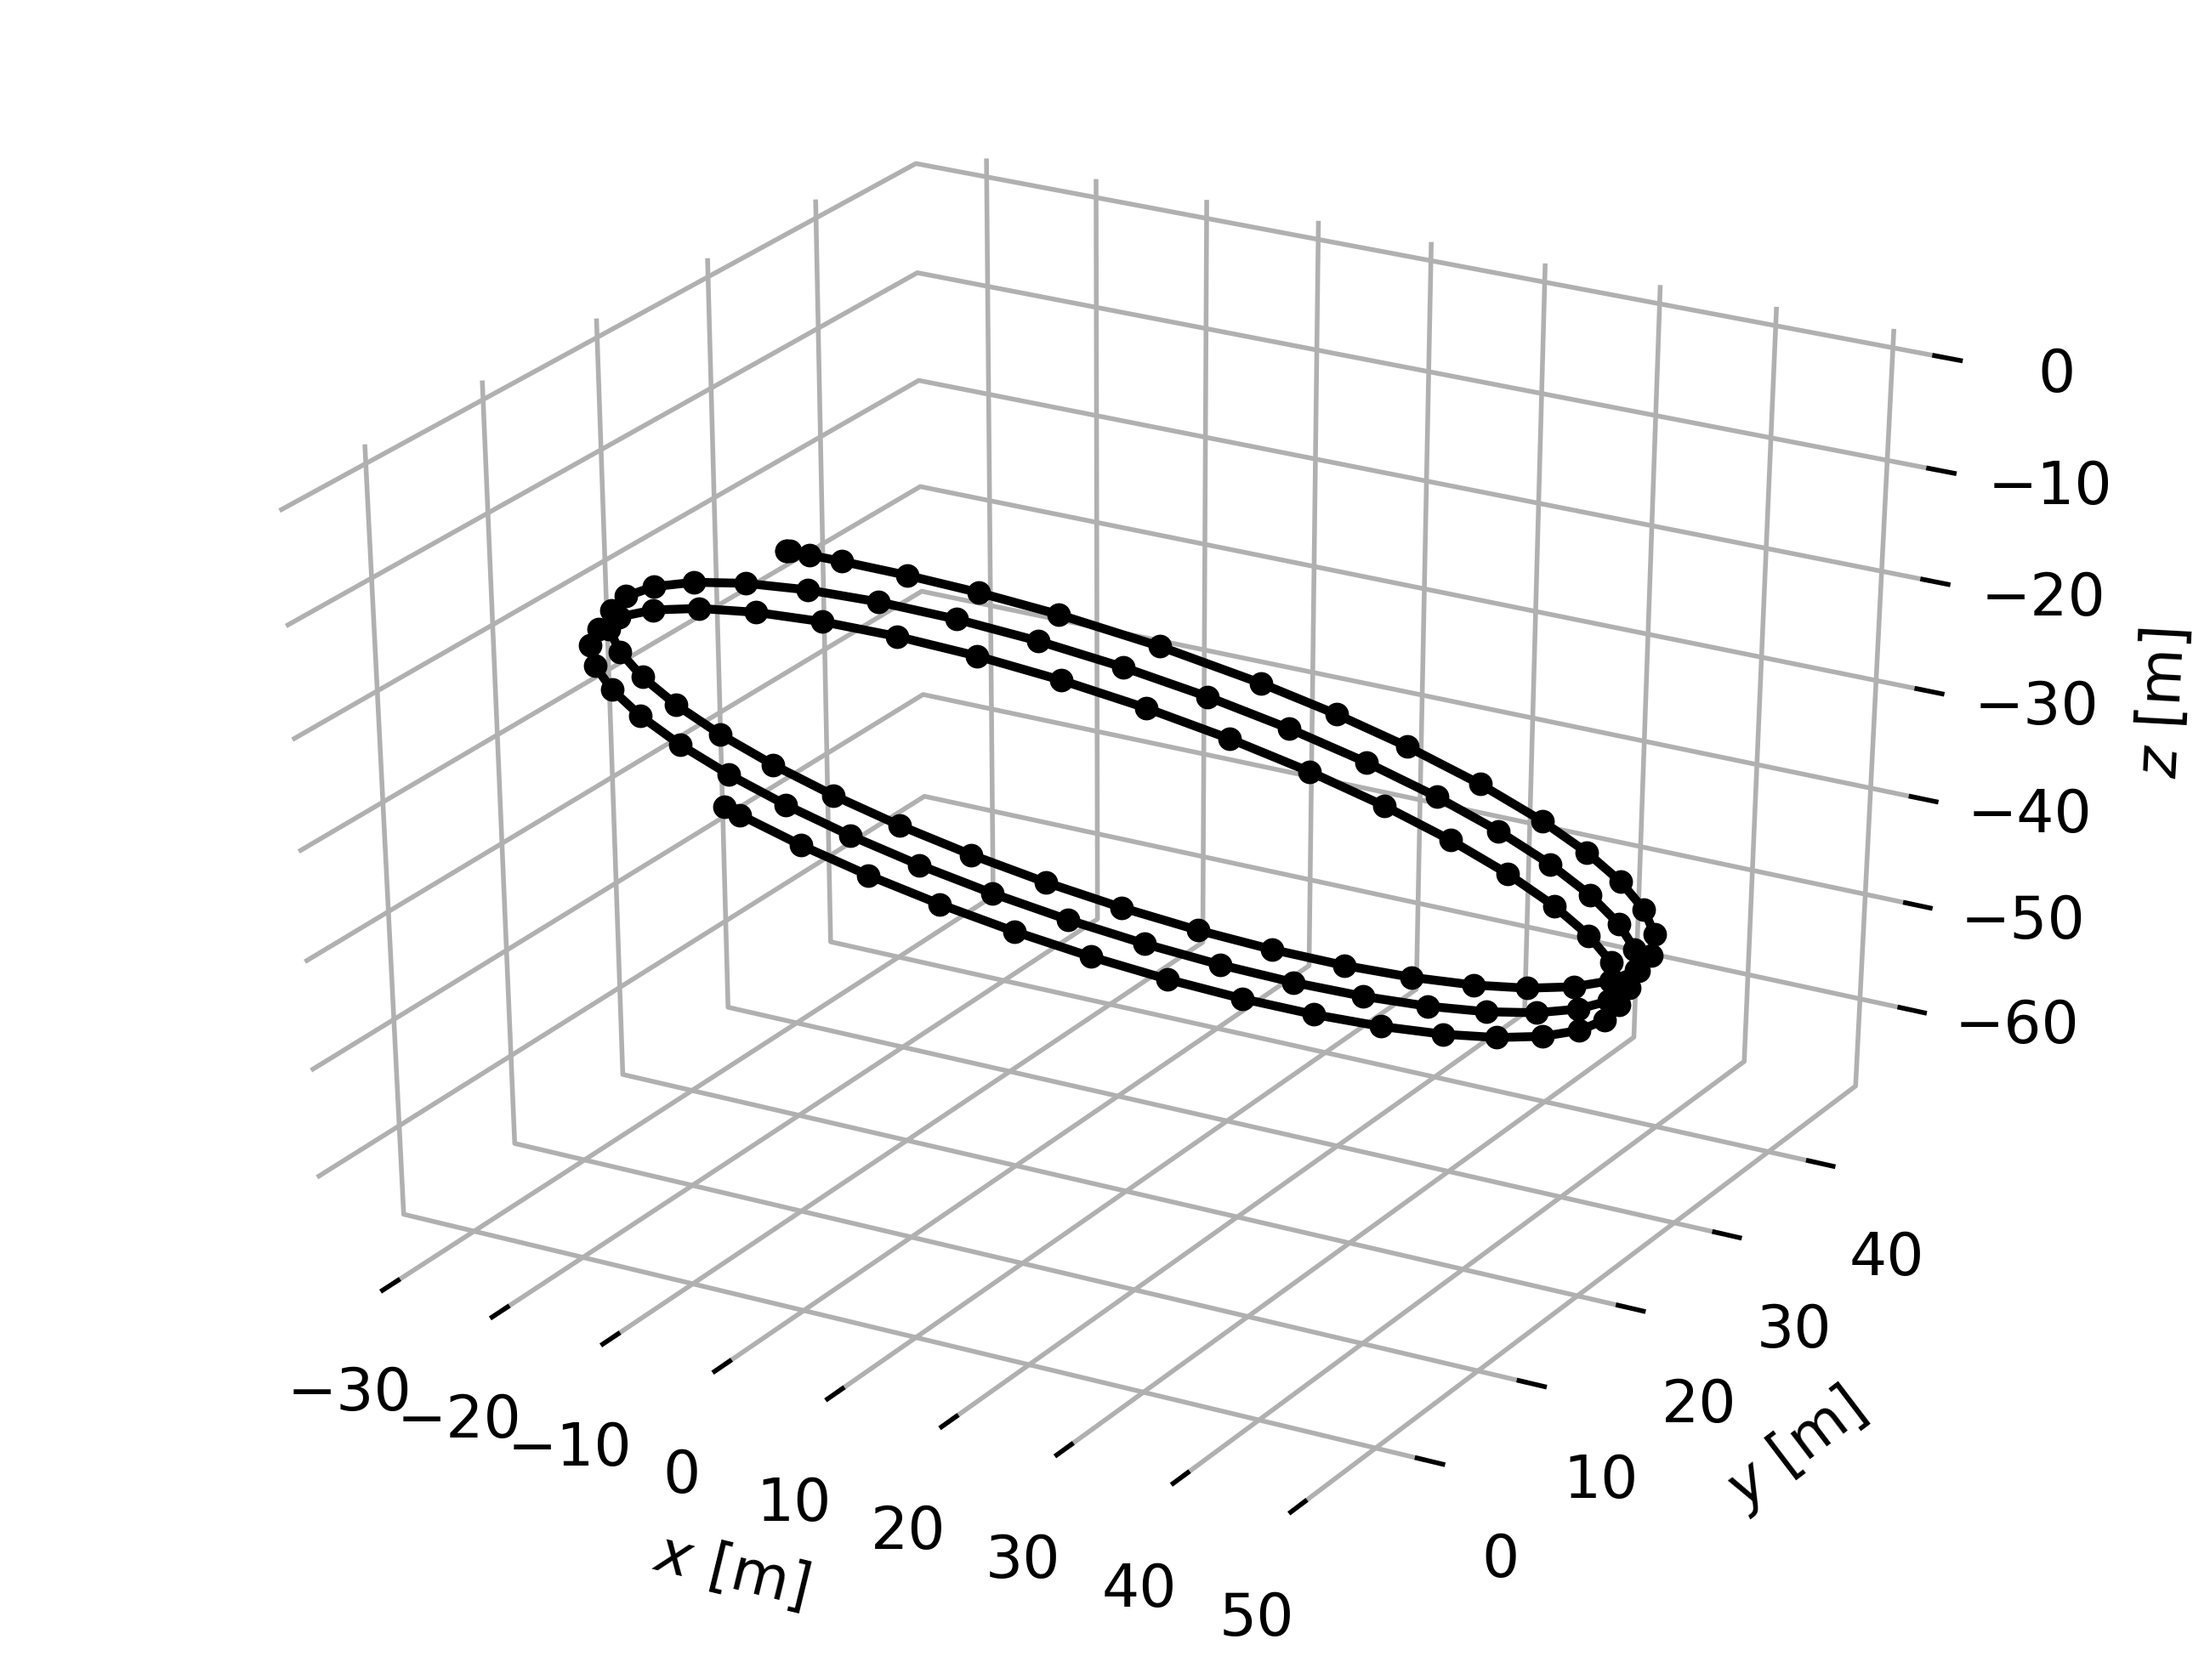
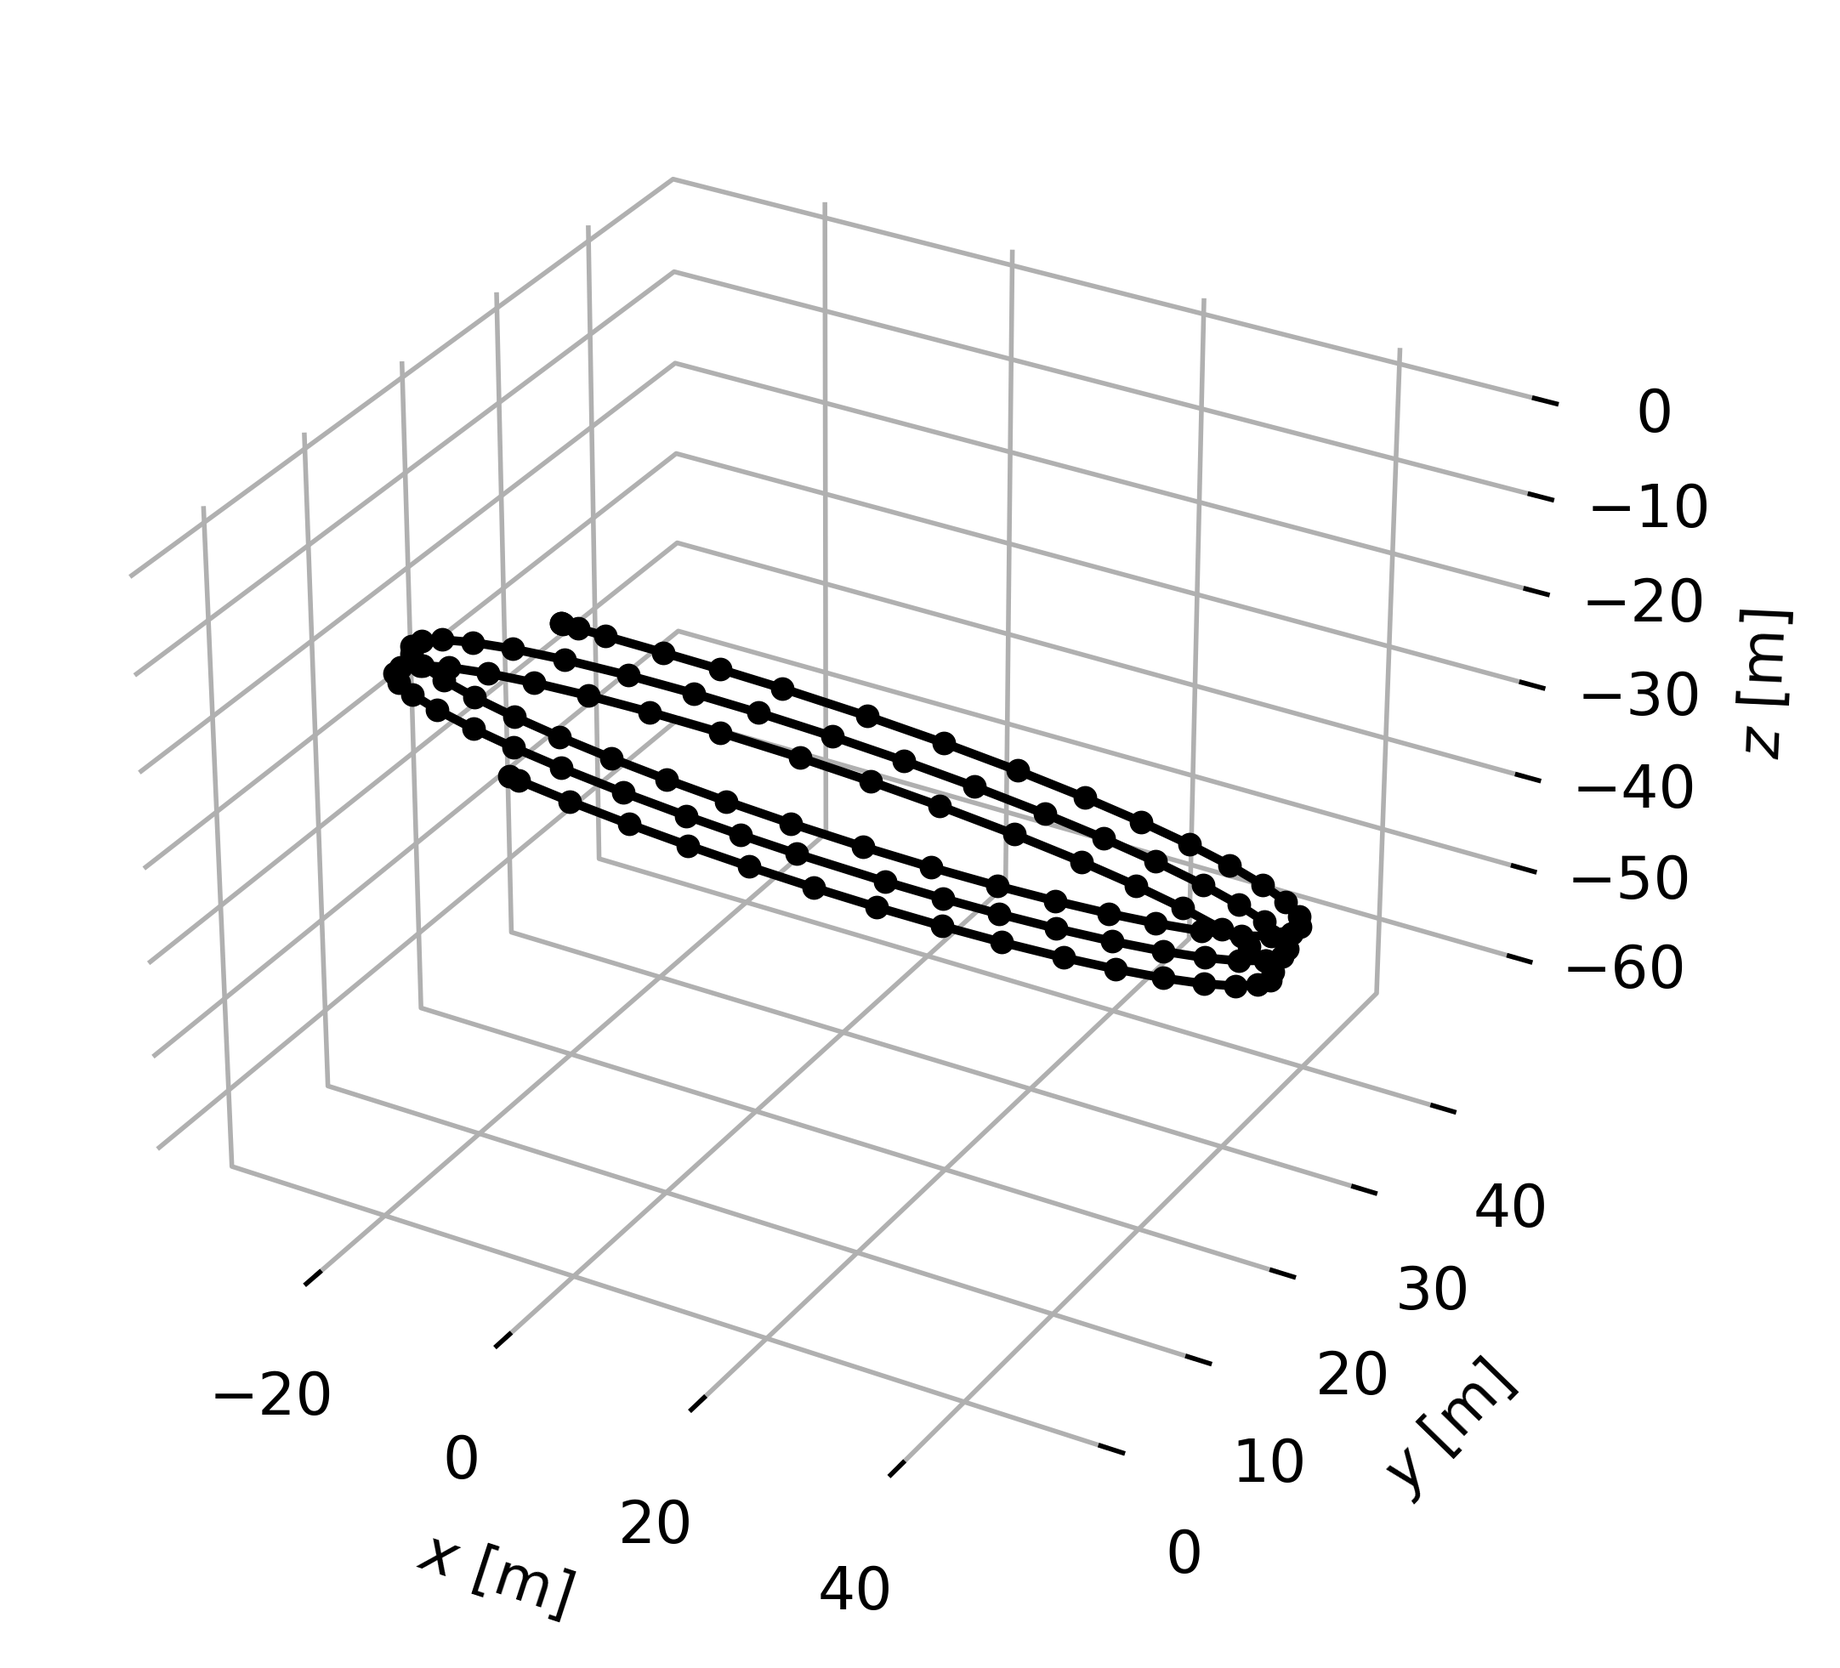
Indirectly optimised a trajectory

diff --git a/sam_dynamics/src/dynamics.py b/sam_dynamics/src/dynamics.py
@@ -3,35 +3,188 @@
 # Christopher Iliffe Sprague
 
 import jax.numpy as np
-from jax import jit, jacfwd
-import numpy as np, matplotlib.pyplot as plt
+from jax import jit, jacfwd, hessian, vmap
+from jax.experimental.ode import odeint
+from jax.random import normal, uniform, PRNGKey
+import matplotlib.pyplot as plt
 from scipy.integrate import solve_ivp
+from functools import partial
+import pygmo as pg
 
 class Dynamics:
 
     def __init__(self, **kwargs):
 
-        # constant parameters
+        # constant parameters from child class
         assert all(key in self.params.keys() for key in kwargs.keys())
         self.params.update(kwargs)
+        
+    @staticmethod
+    def lagrangian(state, control, homotopy, *params):
+        raise NotImplementedError('Implement lagrangian in child class.')
 
-        # compute and compile Jacobian
-        self.eom_jac = jit(jacfwd(self.eom))
+    @staticmethod
+    def state_dynamics(state, control, *params):
+        raise NotImplementedError('Implement state_dynamics in child class.')
 
-    def eom(self, state, control, *args):
+    @partial(jit, static_argnums=(0,))
+    def state_dynamics_jac_state(self, state, control, *params):
+        return jacfwd(self.state_dynamics)(state, control, *params)
+
+    @partial(jit, static_argnums=(0,))
+    def hamiltonian(self, state, costate, control, homotopy, *params):
+        f = self.state_dynamics(state, control, *params)
+        L = self.lagrangian(state, control, homotopy, *params)
+        H = costate.dot(f) + L
+        return H
+
+    @partial(jit, static_argnums=(0,))
+    def costate_dynamics(self, state, costate, control, homotopy, *params):
+        return -jacfwd(self.hamiltonian)(state, costate, control, homotopy, *params)
+
+    @partial(jit, static_argnums=(0,))
+    def collocate_state(self, states, controls, times, *params):
+
+        # sanity
+        assert len(states.shape) == len(controls.shape)
+        assert len(times.shape) == 1
+        assert states.shape[0] == controls.shape[0] == times.shape[0]
+
+        # state collocation — https://en.wikipedia.org/wiki/Trapezoidal_rule
+        f = vmap(lambda state, control: self.state_dynamics(state, control, *params))
+        fa = f(states[1:,:], controls[1:,:])
+        fb = f(states[:-1,:], controls[:-1,:])
+        dt = times[1:] - times[:-1]
+        e = states[:-1,:] + dt.dot(fa + fb)/2.0 - states[1:,:]
+        return e
+
+    @partial(jit, static_argnums=(0,))
+    def collocate_costate(self, states, costates, controls, times, homotopy, *params):
+
+        # sanity
+        assert len(states.shape) == len(costates.shape) == len(controls.shape)
+        assert len(times.shape) == 1
+        assert states.shape[0] == states.shape[0] == costates.shape[0] == controls.shape[0] == times.shape[0]
+
+        # costate_collocation
+        f = vmap(lambda state, costate, control: self.costate_dynamics(state, costate, control, homotopy, *params))
+        fa = f(states[1:,:], costates[1:,:], controls[1:,:])
+        fb = f(states[:-1,:], costates[:-1,:], controls[:-1,:])
+        dt = times[1:] - times[:-1]
+        e = costates[:-1,:] + dt.dot(fa + fb)/2.0 - costates[1:,:]
+        return e
+
+    def solve_indirect(self, states, costates, controls, T, homotopy, boundaries):
+        # z = [T, s0, l0, u0, ..., sn, ln, un]
+
+        # system parameters
+        params = self.params.values()
+
+        # number of collocation nodes
+        n = states.shape[0]
+
+        # compile decision vector bounds
+        def get_bounds():
+            zl = np.hstack((self.state_lb, -100*np.ones_like(self.state_lb), self.control_lb))
+            zl = np.tile(zl, n)
+            zl = np.hstack(([0.0], zl))
+            zu = np.hstack((self.state_ub, 100*np.ones_like(self.state_ub), self.control_ub))
+            zu = np.tile(zu, n)
+            zu = np.hstack(([T], zu))
+            return zl, zu
+        self.get_bounds = jit(get_bounds)
+
+        zl, zu = self.get_bounds()
+        zr = uniform(PRNGKey(0), (zl.shape[0],), minval=zl, maxval=zu)
+
+        # compile decision vector translator
+        @jit
+        def unflatten(z):
+            T = z[0]
+            z = z[1:]
+            z = z.reshape(-1, self.state_dim*2 + self.control_dim)
+            states = z[:,:self.state_dim]
+            costates = z[:,self.state_dim:self.state_dim*2]
+            controls = z[:,self.state_dim*2:self.state_dim*2+self.control_dim]
+            return states, costates, controls, T
+
+        # gradient of Hamiltonian wrt control = 0
+        @vmap
+        @jit
+        def hamiltonian_jac_control(state, costate, control):
+            return jacfwd(self.hamiltonian, argnums=2)(state, costate, control, homotopy, *params)
+
+        # compile fitness vector
+        print('Compiling fitness vector...')
+        def fitness(z):
+
+            # translate decision vector
+            states, costates, controls, T = unflatten(z)
+
+            # time grid
+            n = states.shape[0]
+            times = np.linspace(0, T, n)
+
+            # collocation constraints
+            e0 = self.collocate_state(states, controls, times, *params).flatten()
+            e1 = self.collocate_costate(states, costates, controls, times, homotopy, *params).flatten()
+            e = np.hstack((e0, e1))
+
+            # boundary constraints
+            e1, e2 = boundaries(states[0,:], costates[0,:], states[-1,:], costates[-1,:])
+            e = np.hstack((e, e1, e2))
+
+            # Jacobian of Hamiltonian wrt control = 0
+            e0 = hamiltonian_jac_control(states, costates, controls)
+            e = np.hstack((e, e0.flatten()))**2
+            
+            # fitness vector — only constraints
+            return np.hstack(([1], e))
+
+        self.fitness = jit(fitness)
+
+        # compile sparse Jacobian
+        print('Compiling Jacobian...')
+        gradient = jit(jacfwd(self.fitness))
+        gid = np.vstack((np.nonzero(gradient(zr)))).T
+        self.gradient = jit(lambda z: gradient(z)[[*gid.T]])
+        self.gradient_sparsity = jit(lambda : gid)
+
+        # fitness dimensions
+        self.get_nobj = jit(lambda: 1)
+        nec = len(self.fitness(zr)) - 1
+        self.get_nec = jit(lambda: nec)
+
+        # pygmo problem
+        print('Optimising...')
+        prob = pg.problem(udp=self)
+        algo = pg.ipopt()
+        algo.set_integer_option('max_iter', 2000)
+        algo = pg.algorithm(algo)
+        algo.set_verbosity(1)
+        pop = pg.population(prob=prob, size=1)
+        pop = algo.evolve(pop)
+        z = pop.champion_x
+        np.save('decision.npy', z)
+
+        states, costates, control, T = unflatten(z)
+        self.plot('../img/pontryagin.png', states, dpi=5000)
+
+
+    def plot(self, states, controls=None):
         raise NotImplementedError
 
     def propagate(self, state, controller, t0, tf, atol=1e-8, rtol=1e-8, method='DOP853'):
 
         # integrate dynamics
         sol = solve_ivp(
-            jit(lambda t, x: self.eom(x, controller(x), *self.params.values())),
+            jit(lambda t, x: self.state_dynamics(x, controller(x), *self.params.values())),
             (t0, tf),
             state,
             method=method,
             rtol=rtol,
             atol=atol,
-            jac=jit(lambda t, x: self.eom_jac(x, controller(x), *self.params.values()))
+            jac=jit(lambda t, x: self.state_dynamics_jac_state(x, controller(x), *self.params.values()))
         )
 
         # return times, states, and controls
@@ -39,5 +192,32 @@ class Dynamics:
         controls = np.apply_along_axis(controller, 1, states)
         return times, states, controls
 
-    def plot(self, states, controls=None):
-        raise NotImplementedError
+if __name__ == '__main__':
+
+    from fossen import Fossen
+
+    # instantiate Fossen model
+    system = Fossen()
+    params = system.params.values()
+
+    # random states and controls
+    n = 20
+    k = PRNGKey(0)
+    states = uniform(k, (n, system.state_dim), minval=system.state_lb, maxval=system.state_ub)
+    costates = normal(k, (n, system.state_dim))
+    controls = uniform(k, (n, system.control_dim), minval=system.control_lb, maxval=system.control_ub)
+    times = np.linspace(0.0, 100.0, num=n)
+    homotopy = [0.0, 0.0]
+    T = 10.0
+
+    # boundary constraints
+    @jit
+    def boundaries(state0, costate0, statef, costatef):
+        e0 = np.array([0, 0, 0, 1, 0, 0, 0, 0, 0, 0, 0, 0, 0], dtype=np.float32)
+        e0 -= state0 
+        e1 = np.array([100, 100, 0, 1, 0, 0, 0, 0, 0, 0, 0, 0, 0], dtype=np.float32)
+        e1 -= statef
+        return e0, e1
+
+    res = system.solve_indirect(states, costates, controls, T, homotopy, boundaries)
+    print(res)

diff --git a/sam_dynamics/src/fossen.py b/sam_dynamics/src/fossen.py
@@ -15,6 +15,19 @@ class Fossen(Dynamics):
     state_dim = 13
     control_dim = 4
 
+    # state bounds and scaling
+    state_lb = np.array([
+        *[-2000]*3, # position
+        *[-1]*4,      # quaternions
+        *[-10]*3,     # velocity
+        *[-10]*3      # ang. velocity
+    ])
+    state_ub = -state_lb
+
+    # control bounds
+    control_lb = np.array([*[-200]*2, *[-0.15]*2])
+    control_ub = np.array([*[1500]*2, *[0.15]*2])
+
     # default parameters
     params = OrderedDict(
         Nrr=150., Izz=10., Kt1=0.1, zb=0., Mqq=100., 
@@ -31,19 +44,46 @@ class Fossen(Dynamics):
 
     @staticmethod
     @jit
-    def eom(state, control, *params):
-
-        # constant parameters
-        Nrr, Izz, Kt1, zb, Mqq, ycp, xb, zcp, Yvv, yg, Ixx, Kt0, Xuu, xg, Zww, W, m, B, zg, Kpp, Qt1, Qt0, Iyy, yb, xcp = params
+    def lagrangian(state, control, homotopy, *params):
 
         # sanity
         assert len(state.shape) == len(control.shape) == 1
         assert state.shape[-1] == Fossen.state_dim
         assert control.shape[-1] == Fossen.control_dim
 
+        # constant parameters
+        Nrr, Izz, Kt1, zb, Mqq, ycp, xb, zcp, Yvv, yg, Ixx, Kt0, Xuu, xg, Zww, W, m, B, zg, Kpp, Qt1, Qt0, Iyy, yb, xcp = params
+
+        # extract state and control
+        x, y, z, et0, eps1, eps2, eps3, u, v, w, p, q, r = state
+        rpm0, rpm1, de, dr = control/(Fossen.control_ub - Fossen.control_lb)
+
+        # homotopic cost: (quadratic-effort)-time
+        a, b = homotopy
+        J = sum([
+            (1-b)*(
+                (1-a)*u**2 + a*np.abs(u)
+            )
+            + a
+        for u in [rpm0, rpm1]])
+        return J
+
+    @staticmethod
+    @jit
+    def state_dynamics(state, control, *params):
+
+        # sanity
+        assert len(state.shape) == len(control.shape) == 1
+        assert state.shape[-1] == Fossen.state_dim
+        assert control.shape[-1] == Fossen.control_dim
+
+        # constant parameters
+        Nrr, Izz, Kt1, zb, Mqq, ycp, xb, zcp, Yvv, yg, Ixx, Kt0, Xuu, xg, Zww, W, m, B, zg, Kpp, Qt1, Qt0, Iyy, yb, xcp = params
+
         # extract state and control
         x, y, z, et0, eps1, eps2, eps3, u, v, w, p, q, r = state
         rpm0, rpm1, de, dr = control
+        # rpm0, rpm1, de, dr = control*(Fossen.control_ub - Fossen.control_lb) - Fossen.control_lb
 
         # common subexpression elimination
         x0 = 2*eps2
@@ -218,7 +258,9 @@ class Fossen(Dynamics):
             x104*x97 + x114*x36*x95 + x118*x122 - x126*x94 + x52*x74 + x80*x90
         ], dtype=np.float32)
 
-    def eom_jac_sympy(state, control, *params):
+    @staticmethod
+    @jit
+    def state_dynamics_jac_state_sympy(state, control, *params):
 
         # constant parameters
         Nrr, Izz, Kt1, zb, Mqq, ycp, xb, zcp, Yvv, yg, Ixx, Kt0, Xuu, xg, Zww, W, m, B, zg, Kpp, Qt1, Qt0, Iyy, yb, xcp = params
@@ -231,6 +273,7 @@ class Fossen(Dynamics):
         # extract state and control
         x, y, z, et0, eps1, eps2, eps3, u, v, w, p, q, r = state
         rpm0, rpm1, de, dr = control
+        # rpm0, rpm1, de, dr = control*(Fossen.control_ub - Fossen.control_lb) - Fossen.control_lb
 
         # common subexpression elimination
         x0 = 2*w
@@ -622,7 +665,7 @@ class Fossen(Dynamics):
         ax = fig.add_subplot(111, projection='3d')
         
         # plot positional trajectory
-        ax.plot(x[:,0], x[:,1], x[:,2], 'k.-')
+        ax.plot(states[:,0], states[:,1], states[:,2], 'k.-')
 
         # labels
         ax.set_xlabel('$x$ [m]')
@@ -650,9 +693,9 @@ if __name__ == '__main__':
 
     # initial state
     state = np.array([0, 0, 0, 1, 0, 0, 0, 0, 0, 0, 0, 0, 0], dtype=np.float32)
-
-    # define a controller
-    controller = lambda x: np.array([1000, 1000, 0.1, 0.1], dtype=np.float32)
+    
+    # controller
+    controller = lambda x: np.array([1000, 1000, 0.1, 0.1])
 
     # # propagate system
     t, x, u = system.propagate(state, controller, 0, 50, atol=1e-4, rtol=1e-4)
